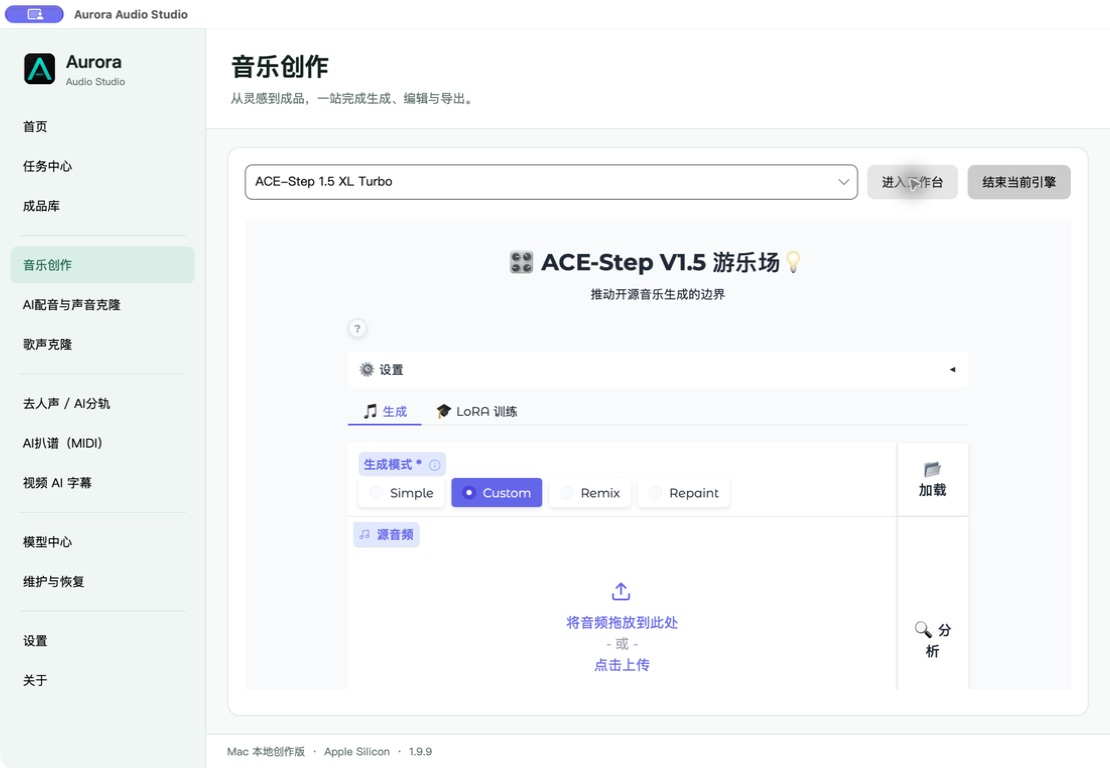
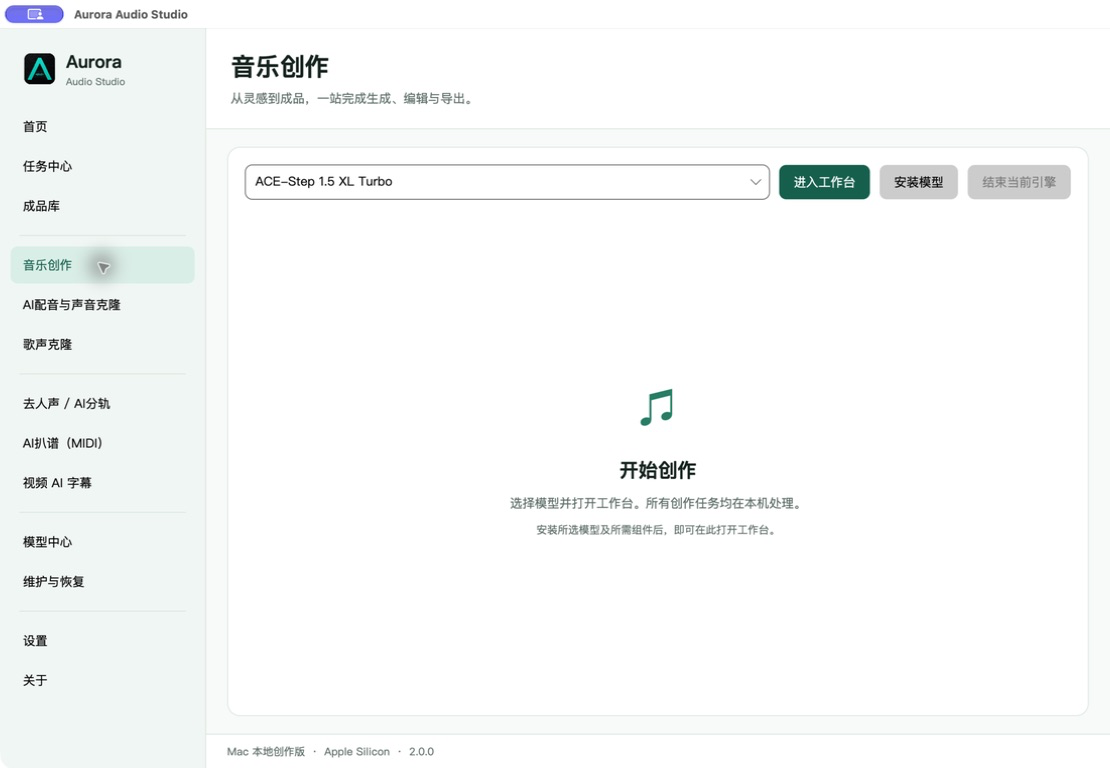
Refresh stable release copy and Mac 2.0.0 interface screenshots

diff --git a/docs/index.html b/docs/index.html
@@ -37,21 +37,21 @@ FINISH: unreviewed and undocumented is unfinished; this build ends with the fini
 </div>
 <div id="workflow-panel" role="tabpanel" aria-labelledby="tab-music" class="workflow-panel">
 <div class="workflow-copy"><h2 id="workflow-title">从文字到完整歌曲</h2><p id="workflow-description">输入创作描述、歌词与风格，在本地模型工作台中完成创作。</p><dl><div><dt data-zh="输入" data-en="Input">输入</dt><dd id="workflow-input">文字、歌词与风格</dd></div><div><dt data-zh="引擎" data-en="Engine">引擎</dt><dd id="workflow-engine">ACE-Step 1.5 XL Turbo</dd></div><div><dt data-zh="输出" data-en="Output">输出</dt><dd id="workflow-output">音频文件</dd></div></dl><a href="#models" data-zh="查看平台与模型支持 →" data-en="Check platform and model support →">查看平台与模型支持 →</a></div>
-<figure><a id="workflow-image-link" href="assets/mac-2.0-music.png" target="_blank" rel="noopener"><img id="workflow-image" src="assets/mac-2.0-music.png" width="1110" height="768" alt="Aurora Mac 音乐创作实机界面"></a><figcaption data-zh="Mac 界面示例，截图版本 1.9.9。当前安装包版本见下方下载区。点击查看原图。" data-en="Mac interface example, captured on 1.9.9. See downloads below for current packages. Click to view the original.">Mac 界面示例，截图版本 1.9.9。当前安装包版本见下方下载区。点击查看原图。</figcaption></figure>
+<figure><a id="workflow-image-link" href="assets/mac-2.0-music.png" target="_blank" rel="noopener"><img id="workflow-image" src="assets/mac-2.0-music.png" width="1110" height="768" alt="Aurora Mac 音乐创作实机界面"></a><figcaption data-zh="Mac 2.0.0 实机界面。点击查看原图，安装包版本见下载区。" data-en="Mac 2.0.0 interface. Click to view the original; see Downloads for package versions.">Mac 2.0.0 实机界面。点击查看原图，安装包版本见下载区。</figcaption></figure>
 </div>
 </section>
 <section class="shell download" id="download">
-<div class="section-heading"><h2 data-zh="选择适合你设备的版本。" data-en="Choose your platform.">选择适合你设备的版本。</h2><p data-zh="Windows 正式版为 2.0.0，Mac 正式版为 1.9.9；两端可选 Beta 4。请按设备选择安装包，模型按需下载。" data-en="Windows Stable is 2.0.0; Mac Stable remains 1.9.9. Beta 4 is available on both. Choose the package for your device and download models as needed.">Windows 正式版为 2.0.0，Mac 正式版为 1.9.9；两端可选 Beta 4。请按设备选择安装包，模型按需下载。</p></div>
+<div class="section-heading"><h2 data-zh="选择适合你设备的版本。" data-en="Choose your platform.">选择适合你设备的版本。</h2><p data-zh="Windows 正式版为 2.0.0，Mac 当前正式安装包为 1.9.9。请按设备选择安装包，模型按需下载。" data-en="Windows Stable is 2.0.0; the current Mac stable installer is 1.9.9. Choose the package for your device and download models as needed.">Windows 正式版为 2.0.0，Mac 当前正式安装包为 1.9.9。请按设备选择安装包，模型按需下载。</p></div>
 <label class="channel-label" for="download-channel"><span data-zh="下载通道" data-en="Download channel">下载通道</span><select id="download-channel"><option value="stable" data-zh="正式版（推荐）" data-en="Stable (recommended)">正式版（推荐）</option><option value="beta" data-zh="测试版" data-en="Beta">测试版</option></select></label>
 <div class="platform-grid">
 <article id="windows-download"><h3>Windows</h3><p>Windows 10 / 11 · x64</p><dl><div><dt data-zh="加速" data-en="Acceleration">加速</dt><dd data-zh="NVIDIA RTX 推荐，按模型要求选择" data-en="NVIDIA RTX recommended; requirements vary by model">NVIDIA RTX 推荐，按模型要求选择</dd></div><div><dt data-zh="安装" data-en="Install">安装</dt><dd data-zh="标准 EXE 安装程序" data-en="Standard EXE installer">标准 EXE 安装程序</dd></div><div><dt data-zh="签名" data-en="Signing">签名</dt><dd data-zh="当前 Windows 包未签名" data-en="Windows packages are currently unsigned">当前 Windows 包未签名</dd></div></dl><a class="button package-link" id="download-windows" href="https://github.com/swy2018/Aurora-Audio-Studio/releases" data-zh="查看 Windows 发布包" data-en="View Windows releases">查看 Windows 发布包</a><p id="windows-version" class="package-status" aria-live="polite"></p><a id="checksum-windows" hidden>SHA-256</a></article>
 <article id="mac-download"><h3>macOS</h3><p>macOS 26+ · Apple Silicon</p><dl><div><dt data-zh="加速" data-en="Acceleration">加速</dt><dd data-zh="Apple Silicon · 按模型使用 MPS / MLX / CPU" data-en="Apple Silicon · MPS / MLX / CPU depending on model">Apple Silicon · 按模型使用 MPS / MLX / CPU</dd></div><div><dt data-zh="安装" data-en="Install">安装</dt><dd data-zh="打开 DMG，拖入 Applications" data-en="Open the DMG and drag into Applications">打开 DMG，拖入 Applications</dd></div><div><dt data-zh="签名" data-en="Signing">签名</dt><dd data-zh="Developer ID 签名与 Apple 公证" data-en="Developer ID signed and Apple notarized">Developer ID 签名与 Apple 公证</dd></div></dl><a class="button package-link" id="download-mac" href="https://github.com/swy2018/Aurora-Audio-Studio/releases" data-zh="查看 Mac 发布包" data-en="View Mac releases">查看 Mac 发布包</a><p id="mac-version" class="package-status" aria-live="polite"></p><a id="checksum-mac" hidden>SHA-256</a></article>
 </div><p class="download-note" data-zh="安装前预留模型中心建议的空间。Beta 可能不稳定；切回正式版不会自动降级。系统权限提示由你确认。" data-en="Reserve the storage recommended by Model Center. Betas may be unstable. Returning to Stable never silently downgrades; system permission prompts require your approval.">安装前预留模型中心建议的空间。Beta 可能不稳定；切回正式版不会自动降级。系统权限提示由你确认。</p>
 </section>
-<section class="shell local-section"><div><h2 data-zh="模型在本地，成果归你管理。" data-en="Local models. Results under your control.">模型在本地，成果归你管理。</h2><p data-zh="从一段音频开始创作，在成品库试听、校对字幕、查看 MIDI 信息并导出结果。任务保留素材和参数，模型可按需安装和更新。" data-en="Start with an audio file, then preview audio, review subtitles, inspect MIDI, and export from the results library. Tasks retain inputs and settings. Install and update models as needed.">从一段音频开始创作，在成品库试听、校对字幕、查看 MIDI 信息并导出结果。任务保留素材和参数，模型可按需安装和更新。</p><p data-zh="应用本身不提供云端生成服务。下载与更新会连接 GitHub、Hugging Face 或模型注明的官方来源。" data-en="Aurora has no cloud-generation service. Downloads and updates connect to GitHub, Hugging Face, or the model's documented upstream source.">应用本身不提供云端生成服务。下载与更新会连接 GitHub、Hugging Face 或模型注明的官方来源。</p></div><figure><a href="assets/mac-2.0-home.png" target="_blank" rel="noopener"><img src="assets/mac-2.0-home.png" width="1110" height="768" loading="lazy" alt="Aurora Mac 首页实机截图" data-alt-zh="Aurora Mac 首页实机截图" data-alt-en="Real Aurora Mac home screen"></a><figcaption data-zh="Mac 首页 · 六个功能无需先新建项目" data-en="Mac home · Six workflows, no project setup required">Mac 首页 · 六个功能无需先新建项目</figcaption></figure></section>
+<section class="shell local-section"><div><h2 data-zh="模型在本地，成果归你管理。" data-en="Local models. Results under your control.">模型在本地，成果归你管理。</h2><p data-zh="从一段音频开始创作，在成品库试听、校对字幕、查看 MIDI 信息并导出结果。任务保留素材和参数，模型可按需安装和更新。" data-en="Start with an audio file, then preview audio, review subtitles, inspect MIDI, and export from the results library. Tasks retain inputs and settings. Install and update models as needed.">从一段音频开始创作，在成品库试听、校对字幕、查看 MIDI 信息并导出结果。任务保留素材和参数，模型可按需安装和更新。</p><p data-zh="应用本身不提供云端生成服务。下载与更新会连接 GitHub、Hugging Face 或模型注明的官方来源。" data-en="Aurora has no cloud-generation service. Downloads and updates connect to GitHub, Hugging Face, or the model's documented upstream source.">应用本身不提供云端生成服务。下载与更新会连接 GitHub、Hugging Face 或模型注明的官方来源。</p></div><figure><a href="assets/mac-2.0-home.png" target="_blank" rel="noopener"><img src="assets/mac-2.0-home.png" width="1110" height="768" loading="lazy" alt="Aurora Mac 首页实机截图" data-alt-zh="Aurora Mac 首页实机截图" data-alt-en="Real Aurora Mac home screen"></a><figcaption data-zh="Mac 2.0.0 首页 · 六个功能无需先新建项目" data-en="Mac 2.0.0 home · Six workflows, no project setup required">Mac 2.0.0 首页 · 六个功能无需先新建项目</figcaption></figure></section>
 <section class="shell" id="models"><h2 data-zh="模型支持与使用要求" data-en="Model support and requirements">模型支持与使用要求</h2><p data-zh="模型中心分别显示安装状态和运行验证记录。标注为“仅模型管理”的六个模型目前仅支持下载与管理，不能在 Aurora 内生成内容。" data-en="Model Center shows installation status and execution checks separately. Six models marked management-only support downloads and management, not generation within Aurora.">模型中心分别显示安装状态和运行验证记录。标注为“仅模型管理”的六个模型目前仅支持下载与管理，不能在 Aurora 内生成内容。</p><p data-zh="MiniMax-Music3 当前需要 CUDA；Faster-Whisper XXL 不支持 Mac。Mac 字幕功能使用 Whisper。生成结果可能因硬件、模型精度和随机设置而不同。" data-en="MiniMax-Music3 currently requires CUDA, and Faster-Whisper XXL is not available on Mac. Mac subtitles use Whisper. Results may vary with hardware, model precision, and random settings.">MiniMax-Music3 当前需要 CUDA；Faster-Whisper XXL 不支持 Mac。Mac 字幕功能使用 Whisper。生成结果可能因硬件、模型精度和随机设置而不同。</p>
 <details><summary data-zh="查看模型目录与许可证" data-en="View model catalog and licenses">查看模型目录与许可证</summary><div class="table-scroll" tabindex="0" role="region" aria-label="Model catalog"><table><thead><tr><th data-zh="模型" data-en="Model">模型</th><th>Windows</th><th>Mac</th><th data-zh="许可证" data-en="License">许可证</th></tr></thead><tbody id="models-body"></tbody></table></div><p id="model-status"><a href="capabilities.json" data-zh="打开模型数据" data-en="Open model data">打开模型数据</a></p></details></section>
-<section class="shell update-section"><div><h2 data-zh="选择适合你的更新通道。" data-en="Choose your update channel.">选择适合你的更新通道。</h2><p data-zh="在设置中选择适合你的更新通道：正式版适合日常使用，Beta 提供预发布版本。保存设置后，Aurora 会按所选通道检查更新，并提供对应系统的安装包。" data-en="Choose an update channel in Settings: Stable for everyday use, or Beta for prerelease versions. After saving, Aurora checks your selected channel and offers the installer for your operating system.">在设置中选择适合你的更新通道：正式版适合日常使用，Beta 提供预发布版本。保存设置后，Aurora 会按所选通道检查更新，并提供对应系统的安装包。</p><a href="https://github.com/swy2018/Aurora-Audio-Studio/issues/new/choose" data-zh="反馈问题与建议 →" data-en="Report an issue or share feedback →">反馈问题与建议 →</a></div><figure><a href="assets/mac-2.0-settings.png" target="_blank" rel="noopener"><img src="assets/mac-2.0-settings.png" width="1110" height="768" loading="lazy" alt="Aurora Mac 更新通道设置" data-alt-zh="Aurora Mac 更新通道设置" data-alt-en="Aurora Mac update channel settings"></a><figcaption data-zh="正式版默认开启，Beta 由你主动选择" data-en="Stable by default. Beta by choice.">正式版默认开启，Beta 由你主动选择</figcaption></figure></section>
+<section class="shell update-section"><div><h2 data-zh="选择适合你的更新通道。" data-en="Choose your update channel.">选择适合你的更新通道。</h2><p data-zh="在设置中选择适合你的更新通道：正式版适合日常使用，Beta 提供预发布版本。保存设置后，Aurora 会按所选通道检查更新，并提供对应系统的安装包。" data-en="Choose an update channel in Settings: Stable for everyday use, or Beta for prerelease versions. After saving, Aurora checks your selected channel and offers the installer for your operating system.">在设置中选择适合你的更新通道：正式版适合日常使用，Beta 提供预发布版本。保存设置后，Aurora 会按所选通道检查更新，并提供对应系统的安装包。</p><a href="https://github.com/swy2018/Aurora-Audio-Studio/issues/new/choose" data-zh="反馈问题与建议 →" data-en="Report an issue or share feedback →">反馈问题与建议 →</a></div><figure><a href="assets/mac-2.0-settings.png" target="_blank" rel="noopener"><img src="assets/mac-2.0-settings.png" width="1110" height="768" loading="lazy" alt="Aurora Mac 更新通道设置" data-alt-zh="Aurora Mac 更新通道设置" data-alt-en="Aurora Mac update channel settings"></a><figcaption data-zh="Mac 2.0.0 设置 · 默认使用正式版通道" data-en="Mac 2.0.0 Settings · Stable channel by default">Mac 2.0.0 设置 · 默认使用正式版通道</figcaption></figure></section>
 </main>
 <footer class="shell"><a class="brand" href="#top">Aurora Audio Studio 2.0</a><p data-zh="为 Windows 与 Mac 的本地创作者而做。" data-en="For local creators on Windows and Mac.">为 Windows 与 Mac 的本地创作者而做。</p><div><a href="https://github.com/swy2018/Aurora-Audio-Studio">源码 / Source</a><a href="https://github.com/swy2018/Aurora-Audio-Studio/blob/main/PRIVACY.md">隐私 / Privacy</a><a href="https://github.com/swy2018/Aurora-Audio-Studio/blob/main/LICENSE">GPL-3.0</a><a href="release-notes.md">更新日志 / Changelog</a></div></footer>
 </body></html>

diff --git a/work/audio-studio/AuroraAudioStudio/MainPage.xaml b/work/audio-studio/AuroraAudioStudio/MainPage.xaml
@@ -444,7 +444,7 @@
                         <TextBlock Text="Aurora Audio Studio" FontSize="30" FontWeight="SemiBold"/>
                         <TextBlock x:Name="AboutVersionText" TextWrapping="Wrap" FontSize="16" Foreground="{ThemeResource AuroraMutedBrush}"/>
                         <TextBlock ui:LocalizedText.Key="苏晚颜 · Aurora Studio" FontSize="18" FontWeight="SemiBold" Margin="0,12,0,0"/>
-                        <TextBlock ui:LocalizedText.Key="为音乐、声音与影像创作者打造的一站式本地工作台。灵感、素材与成品，始终由你掌控。" TextWrapping="Wrap"/>
+                        <TextBlock ui:LocalizedText.Key="productAbout" TextWrapping="Wrap"/>
                         <Rectangle Height="1" Fill="{ThemeResource AuroraStrokeBrush}" Margin="0,10"/>
                         <TextBlock ui:LocalizedText.Key="更新日志" FontSize="20" FontWeight="SemiBold"/>
                         <TextBlock x:Name="AboutReleaseSummary" TextWrapping="Wrap"/>

diff --git a/work/audio-studio/AuroraAudioStudio/Services/LocalizationService.cs b/work/audio-studio/AuroraAudioStudio/Services/LocalizationService.cs
@@ -322,7 +322,7 @@ public sealed class LocalizationService(SettingsService settings)
             "0.9.8 · Localized update results, richer Model Center details, and three additional multilingual Faster-Whisper models.",
             "0.9.8 · 更新結果の完全なローカライズ、モデルセンターの情報拡充、3 種類の多言語 Faster-Whisper モデルを追加。"],
         ["0.9.8 · 本地 AI 音频创作工作台"] = ["0.9.8 · 本地 AI 音频创作工作台", "0.9.8 · 本機 AI 音訊創作工作台", "0.9.8 · Local AI audio production workbench", "0.9.8 · ローカル AI オーディオ制作ワークベンチ"],
-        ["为音乐、声音与影像创作者打造的一站式本地工作台。灵感、素材与成品，始终由你掌控。"] = ["为音乐、声音与影像创作者打造的一站式本地工作台。灵感、素材与成品，始终由你掌控。", "為音樂、聲音與影像創作者打造的一站式本機工作台。靈感、素材與成品，始終由你掌控。", "A unified local workbench for music, voice, and video creators. Your ideas, source files, and finished work remain under your control.", "音楽・音声・映像クリエイターのための統合ローカルワークベンチ。アイデア、素材、完成作品は常に自分で管理できます。"],
+        ["productAbout"] = ["面向 Windows 与 macOS 的本地音频创作工作台。音乐创作、配音与声音克隆、歌声转换、分轨、MIDI 扒谱和字幕制作，集中完成。", "面向 Windows 與 macOS 的本機音訊創作工作台。音樂創作、配音與聲音複製、歌聲轉換、分軌、MIDI 採譜和字幕製作，集中完成。", "A local audio workspace for Windows and macOS. Create music, voiceovers, voice clones, converted vocals, stems, MIDI, and subtitles in one place.", "Windows と macOS のローカル音声制作ワークスペース。音楽制作、ナレーションと音声クローン、歌声変換、音源分離、MIDI 採譜、字幕制作を一か所で行えます。"],
         ["更新日志"] = ["更新日志", "更新記錄", "Release notes", "更新履歴"],
         ["Copyright © 2026 Aurora Contributors. Licensed under GNU GPL v3.0."] = ["版权所有 © 2026 Aurora Contributors。采用 GNU GPL v3.0 许可。", "版權所有 © 2026 Aurora Contributors。採用 GNU GPL v3.0 授權。", "Copyright © 2026 Aurora Contributors. Licensed under GNU GPL v3.0.", "Copyright © 2026 Aurora Contributors。GNU GPL v3.0 に基づき提供。"],
         ["0.9.7 · 模型选择更完整：新增轻量配音、声音克隆、通用分轨与轻量扒谱引擎，均由用户按需安装。"] = [

diff --git a/work/audio-studio/AuroraAudioStudio.Mac/StudioText.cs b/work/audio-studio/AuroraAudioStudio.Mac/StudioText.cs
@@ -123,7 +123,7 @@ public sealed class StudioText(MacWorkspace workspace)
         ["sendHost"] = ["发送到 Aurora", "傳送到 Aurora", "Send to Aurora", "Aurora に送信"],
         ["webAudio"] = ["选择本地音频试听", "選擇本機音訊試聽", "Choose local audio to preview", "ローカル音声を選んで試聴"],
         ["received"] = ["Aurora 已收到：", "Aurora 已收到：", "Aurora received: ", "Aurora が受信："],
-        ["aboutBody"] = ["为 Windows 与 Mac 的本地音频创作而设计。六类工作流、四种界面语言，模型与作品由你掌控。", "為 Windows 與 Mac 的本機音訊創作而設計。六類工作流程、四種介面語言，模型與作品由你掌控。", "Local audio creation for Windows and Mac. Six workflows, four interface languages, and control over your models and results.", "Windows と Mac のローカル音声制作。6つのワークフロー、4言語の UI。モデルと成果は自分で管理できます。"],
+        ["aboutBody"] = ["面向 Windows 与 macOS 的本地音频创作工作台。音乐创作、配音与声音克隆、歌声转换、分轨、MIDI 扒谱和字幕制作，集中完成。", "面向 Windows 與 macOS 的本機音訊創作工作台。音樂創作、配音與聲音複製、歌聲轉換、分軌、MIDI 採譜和字幕製作，集中完成。", "A local audio workspace for Windows and macOS. Create music, voiceovers, voice clones, converted vocals, stems, MIDI, and subtitles in one place.", "Windows と macOS のローカル音声制作ワークスペース。音楽制作、ナレーションと音声クローン、歌声変換、音源分離、MIDI 採譜、字幕制作を一か所で行えます。"],
         ["aboutScope"] = ["模型与运行环境在本机管理。各模型的平台支持情况请查看模型中心。", "模型與執行環境在本機管理。各模型的平台支援情況請查看模型中心。", "Models and runtimes are managed locally. See Model Center for platform support.", "モデルと実行環境はローカルで管理します。対応環境はモデルセンターで確認できます。"],
         ["error"] = ["操作未完成", "操作未完成", "Action not completed", "操作を完了できませんでした"],
         ["retryWeb"] = ["重新加载页面", "重新載入頁面", "Reload page", "ページを再読み込み"],

diff --git a/CHANGELOG.md b/CHANGELOG.md
@@ -2,19 +2,19 @@
 
 ## 2.0.0 — 2026-09-13
 
-- Windows 2.0 正式版现已提供。Mac 2.0 源码同步提供，正式安装包待 Mac 端构建与验收；Mac 当前正式版仍为 1.9.9。
-- 统一引擎启动、任务完成、失败、取消及模型维护阶段的自有提示，并补齐简体中文、繁体中文、英文和日文。
-- 新写入的自有运行日志使用当前设置语言，并与引擎及安装工具的原始输出分开标记；保留退出码、错误详情和文件路径，不重写历史日志。
-- 延续 2.0 Beta 的工作台连接修复、处理设置保存、任务与成品关联、模型局部修复及正式版回退。
-- 本轮通过既有回归及 61 项日志文案检查，覆盖真实子进程的成功、失败、取消和原始输出保留；不代表所有模型、设备与长任务均已验证。
-- 正式版与 Beta 通道继续独立提供。Windows 安装包未代码签名；升级或回退前请备份重要配置与作品。
+- Windows 2.0.0 正式版现已提供。Mac 当前正式安装包为 1.9.9；各平台可下载版本以发布页为准。
+- 音乐创作、配音与声音克隆、歌声转换、分轨、MIDI 扒谱和字幕制作，集中在本地工作台完成。
+- 完善工作台连接、处理设置保存、任务与成品关联，以及模型局部修复和应用版本回退。
+- Aurora 的任务状态与运行提示支持简体中文、繁体中文、英文和日文，并随界面语言切换。
+- 运行日志区分 Aurora 提示与引擎原始输出，保留错误详情、退出码和文件路径，便于排查问题。
+- 正式版适合日常使用，Beta 通道可选。Windows 安装包未代码签名；升级或回退前请备份重要配置与作品。
 
-- Windows 2.0 Stable is available. Mac 2.0 source is included for a separate Mac build and acceptance; the current Mac stable release remains 1.9.9.
-- Refine Aurora-authored engine startup, task completion, failure, cancellation, and model-maintenance messages in Simplified Chinese, Traditional Chinese, English, and Japanese.
-- New Aurora-authored log entries use the selected language and are distinguished from original engine and installer output. Exit codes, error details, and paths are retained; historical logs are not rewritten.
-- Retain the 2.0 Beta workbench connection fixes, saved processing settings, task-to-result links, targeted model repair, and stable-release rollback.
-- Existing regressions and 61 runtime-copy checks passed, including real subprocess success, failure, cancellation, and original-output preservation. Not every model, device, or long-running task was tested.
-- Stable and Beta remain separate download channels. The Windows installer is unsigned. Back up important settings and work before upgrading or reverting.
+- Windows 2.0.0 Stable is available. The current Mac stable installer is 1.9.9. See the release page for available downloads on each platform.
+- Create music, voiceovers, voice clones, converted vocals, stems, MIDI, and subtitles in one local workspace.
+- Improve workbench connections, saved processing settings, task-to-result links, targeted model repair, and application rollback.
+- Aurora task status and runtime messages follow the interface language: Simplified Chinese, Traditional Chinese, English, or Japanese.
+- Logs distinguish Aurora messages from original engine output and retain error details, exit codes, and file paths for troubleshooting.
+- Stable is recommended for everyday use; Beta is optional. The Windows installer is unsigned. Back up important settings and work before upgrading or reverting.
 
 ## 2.0.0-beta.4 — 2026-09-13
 

diff --git a/docs/release-notes.md b/docs/release-notes.md
@@ -1,15 +1,15 @@
 ## 2.0.0 — 2026-09-13
 
-- Windows 2.0 正式版现已提供。Mac 2.0 源码同步提供，正式安装包待 Mac 端构建与验收；Mac 当前正式版仍为 1.9.9。
-- 统一引擎启动、任务完成、失败、取消及模型维护阶段的自有提示，并补齐简体中文、繁体中文、英文和日文。
-- 新写入的自有运行日志使用当前设置语言，并与引擎及安装工具的原始输出分开标记；保留退出码、错误详情和文件路径，不重写历史日志。
-- 延续 2.0 Beta 的工作台连接修复、处理设置保存、任务与成品关联、模型局部修复及正式版回退。
-- 本轮通过既有回归及 61 项日志文案检查，覆盖真实子进程的成功、失败、取消和原始输出保留；不代表所有模型、设备与长任务均已验证。
-- 正式版与 Beta 通道继续独立提供。Windows 安装包未代码签名；升级或回退前请备份重要配置与作品。
+- Windows 2.0.0 正式版现已提供。Mac 当前正式安装包为 1.9.9；各平台可下载版本以发布页为准。
+- 音乐创作、配音与声音克隆、歌声转换、分轨、MIDI 扒谱和字幕制作，集中在本地工作台完成。
+- 完善工作台连接、处理设置保存、任务与成品关联，以及模型局部修复和应用版本回退。
+- Aurora 的任务状态与运行提示支持简体中文、繁体中文、英文和日文，并随界面语言切换。
+- 运行日志区分 Aurora 提示与引擎原始输出，保留错误详情、退出码和文件路径，便于排查问题。
+- 正式版适合日常使用，Beta 通道可选。Windows 安装包未代码签名；升级或回退前请备份重要配置与作品。
 
-- Windows 2.0 Stable is available. Mac 2.0 source is included for a separate Mac build and acceptance; the current Mac stable release remains 1.9.9.
-- Refine Aurora-authored engine startup, task completion, failure, cancellation, and model-maintenance messages in Simplified Chinese, Traditional Chinese, English, and Japanese.
-- New Aurora-authored log entries use the selected language and are distinguished from original engine and installer output. Exit codes, error details, and paths are retained; historical logs are not rewritten.
-- Retain the 2.0 Beta workbench connection fixes, saved processing settings, task-to-result links, targeted model repair, and stable-release rollback.
-- Existing regressions and 61 runtime-copy checks passed, including real subprocess success, failure, cancellation, and original-output preservation. Not every model, device, or long-running task was tested.
-- Stable and Beta remain separate download channels. The Windows installer is unsigned. Back up important settings and work before upgrading or reverting.
+- Windows 2.0.0 Stable is available. The current Mac stable installer is 1.9.9. See the release page for available downloads on each platform.
+- Create music, voiceovers, voice clones, converted vocals, stems, MIDI, and subtitles in one local workspace.
+- Improve workbench connections, saved processing settings, task-to-result links, targeted model repair, and application rollback.
+- Aurora task status and runtime messages follow the interface language: Simplified Chinese, Traditional Chinese, English, or Japanese.
+- Logs distinguish Aurora messages from original engine output and retain error details, exit codes, and file paths for troubleshooting.
+- Stable is recommended for everyday use; Beta is optional. The Windows installer is unsigned. Back up important settings and work before upgrading or reverting.

diff --git a/DESIGN.md b/DESIGN.md
@@ -83,7 +83,7 @@ components:
 
 Aurora uses calm white working surfaces, pale mint surroundings, forest text, and deep-green actions. Windows and Mac share that identity while retaining their own desktop typography, controls, and platform behavior. The approved dark rounded A-wave icon remains the application mark.
 
-This refresh records the implemented website in docs/index.html, docs/styles.css, and docs/app.js. Its selected direction is workflow-first, candidate 5, seed 3bf050c7, as recorded in the page's direction contract. The website presents Aurora 2.0 with equal Windows and Mac visibility. Actual Mac 1.9.9 captures, labeled with their capture version, provide product evidence. Version branding does not imply that 2.0 final has shipped; release truth remains in PRODUCT.md and the release data.
+This refresh records the implemented website in docs/index.html, docs/styles.css, and docs/app.js. Its selected direction is workflow-first, candidate 5, seed 3bf050c7, as recorded in the page's direction contract. The website presents Aurora 2.0 with equal Windows and Mac visibility. Actual Mac 2.0.0 captures, labeled with their capture version, show the current interface. The download section separately identifies available installers; release availability comes from GitHub release assets.
 
 The frontmatter records website tokens, not replacement native-app tokens. The native rules below preserve application-specific behavior. The rendered references are .impeccable/review/desktop.png, mobile.png, and hero-repro.png; these visual records do not assert model inference success or release verification.
 

diff --git a/docs/assets/mac-2.0-screenshots.md b/docs/assets/mac-2.0-screenshots.md
@@ -1,0 +1,15 @@
+# Mac 2.0.0 界面截图
+
+拍摄日期：2026-09-13。应用版本：2.0.0（2000099），Apple Silicon，简体中文、浅色主题。
+
+截图来自本次源码构建的真实应用窗口，包括首页、六个功能入口、设置和 About；未使用生成图或合成界面。拍摄使用独立配置与空白任务记录，不包含个人素材或作品。截图展示界面，不代表模型推理、签名公证或安装包发布状态；可下载版本以官网和 GitHub Releases 为准。
+
+- `mac-2.0-about.png`
+- `mac-2.0-home.png`
+- `mac-2.0-music.png`
+- `mac-2.0-separation.png`
+- `mac-2.0-settings.png`
+- `mac-2.0-singing.png`
+- `mac-2.0-subtitles.png`
+- `mac-2.0-transcription.png`
+- `mac-2.0-voice.png`
